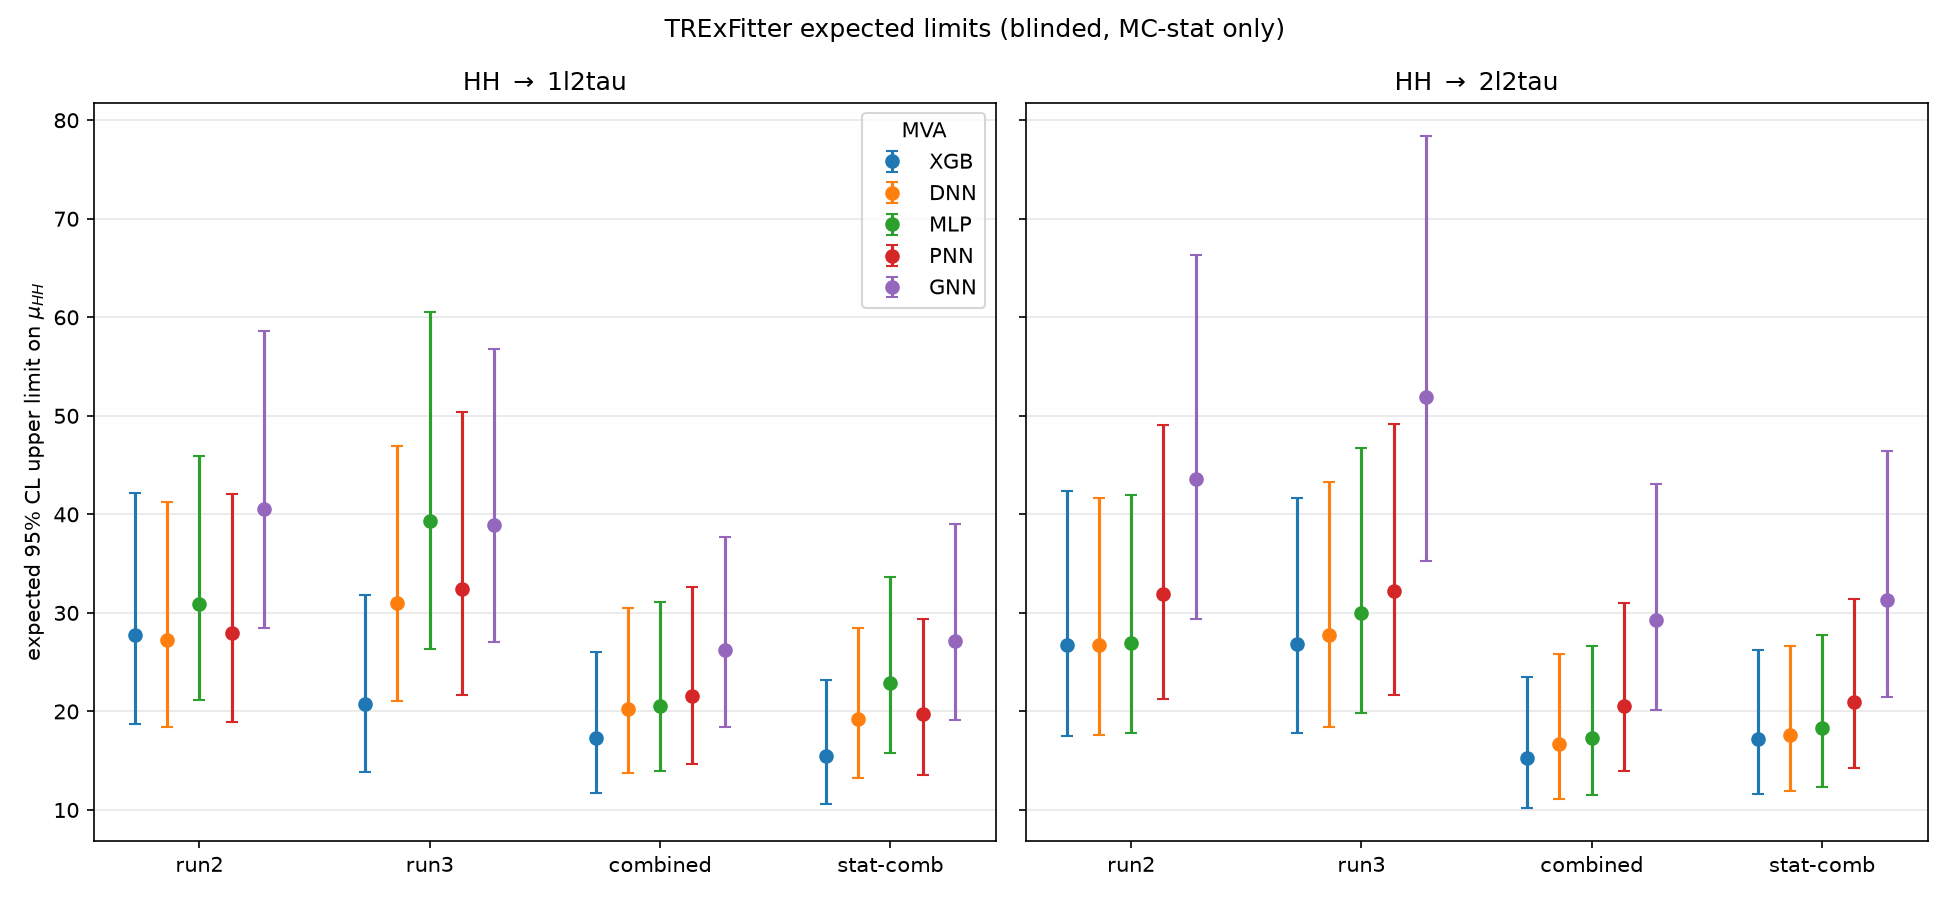
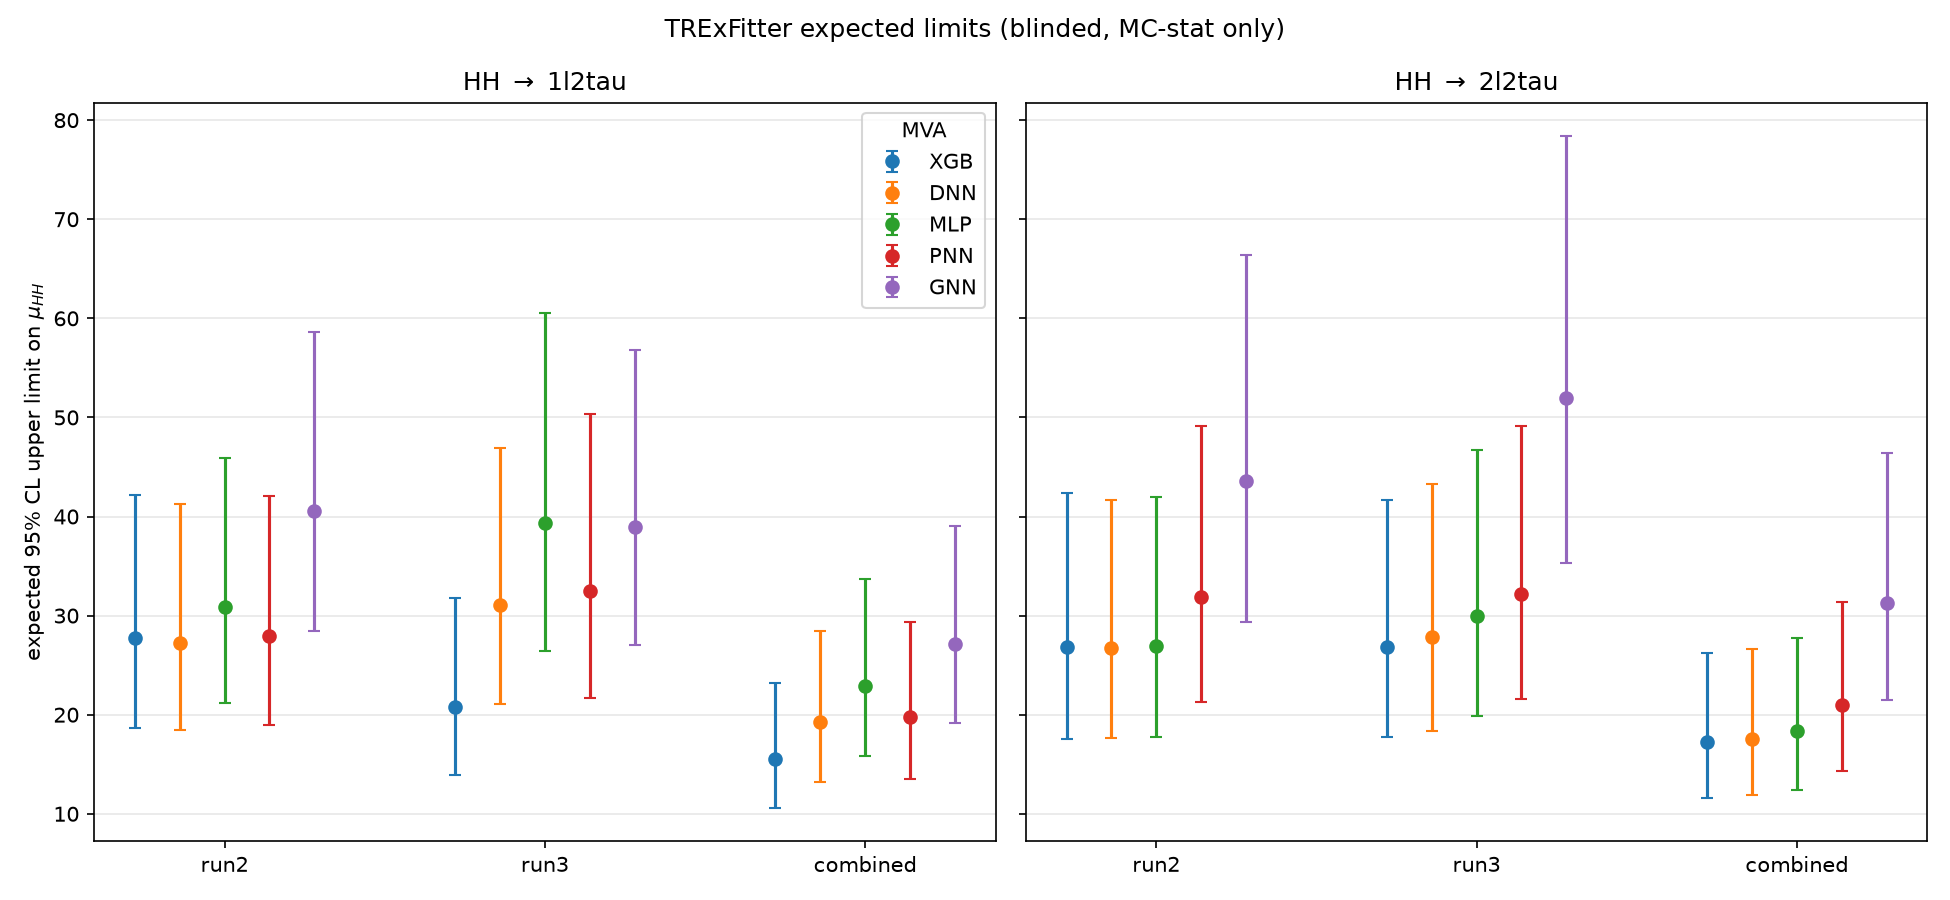
SUmmarize changed. REmoved combined plot

diff --git a/scripts/Summarize_TRExFitter_Results.py b/scripts/Summarize_TRExFitter_Results.py
@@ -21,12 +21,20 @@ REPO = os.path.dirname(os.path.dirname(os.path.abspath(__file__)))
 RESULTS = os.path.join(REPO, "trexfitter", "results")
 
 METHODS = ["XGB", "DNN", "MLP", "PNN", "GNN"]
-ERAS = ["run2", "run3", "combined", "stat-comb"]
+ERAS = ["run2", "run3", "stat-comb"]
+# The statistical combination is the only combination we quote, so it is the one
+# labelled "combined" for the reader.
+ERA_LABELS = {"run2": "run2", "run3": "run3", "stat-comb": "combined"}
 
 
 def parse_name(config):
-    """hh1l2tau_run3_XGB -> (1l2tau, run3, XGB); combine_1l2tau_XGB -> (1l2tau, stat-comb, XGB)."""
-    m = re.match(r"hh(\dl2tau)_(run2|run3|combined)_(\w+)$", config)
+    """hh1l2tau_run3_XGB -> (1l2tau, run3, XGB); combine_1l2tau_XGB -> (1l2tau, stat-comb, XGB).
+
+    The hh*_combined_* fits merge the Run 2 and Run 3 samples into a single
+    template, which is not a valid combination when the two runs have different
+    cross sections and luminosities, so those directories are skipped.
+    """
+    m = re.match(r"hh(\dl2tau)_(run2|run3)_(\w+)$", config)
     if m:
         return m.group(1), m.group(2), m.group(3)
     m = re.match(r"combine_(\dl2tau)_(\w+)$", config)
@@ -122,7 +130,7 @@ def plot(df, path):
             off = (i - 2) * 0.14
             ax.errorbar(x + off, vals, yerr=[lo, hi], fmt="o", capsize=3, label=method)
         ax.set_xticks(x)
-        ax.set_xticklabels(ERAS)
+        ax.set_xticklabels([ERA_LABELS[e] for e in ERAS])
         ax.set_title(f"HH $\\to$ {channel}")
         ax.grid(alpha=0.3, axis="y")
     axes[0].set_ylabel(r"expected 95% CL upper limit on $\mu_{HH}$")
